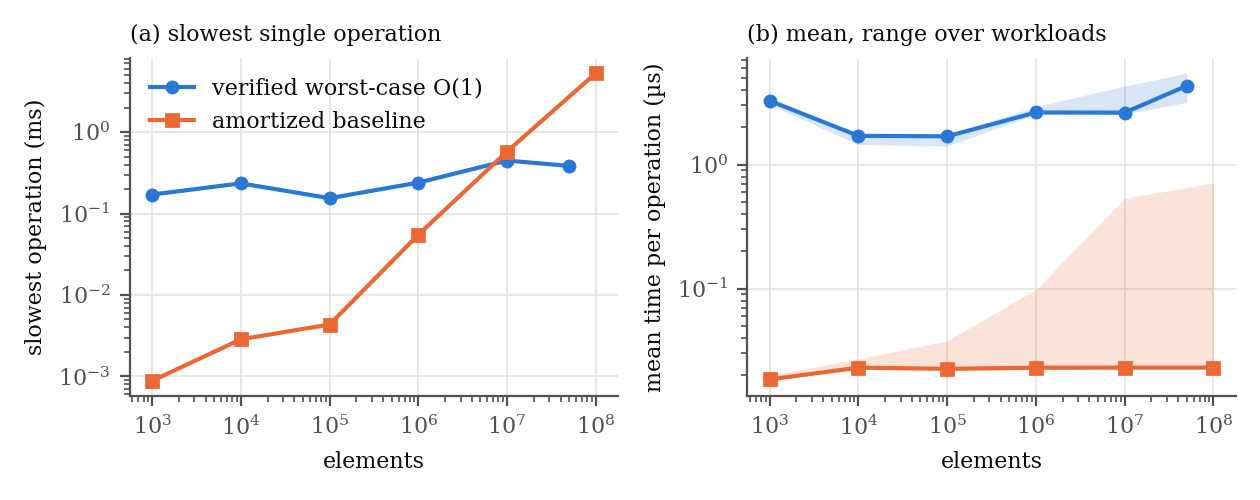
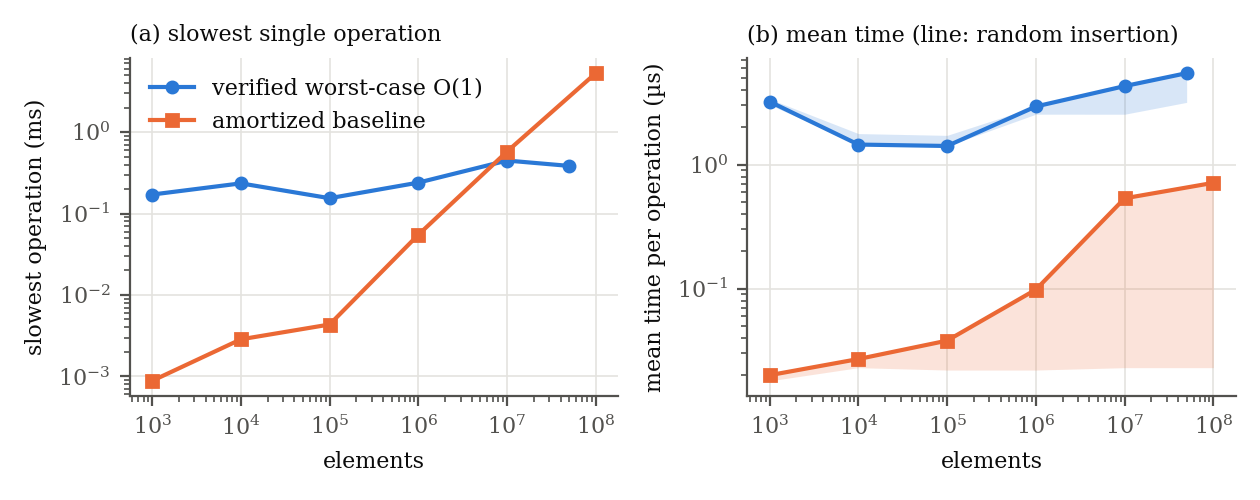
Comparison: the mean-time panel shows random insertion (8x at 10^7, 37x at 10^5) with the range over workloads; README explains the cache effect and where our time goes

diff --git a/rust/results/compare/summarize.py b/rust/results/compare/summarize.py
@@ -65,13 +65,14 @@ for imp, (label, color, marker) in SERIES.items():
     ns = sorted(by_n)
     worst = [max(r["max_ns"] for r in by_n[n]) / 1e6 for n in ns]
     means = [[r["mean_ns"] / 1e3 for r in by_n[n]] for n in ns]
+    rnd = [next(r["mean_ns"] / 1e3 for r in by_n[n] if r["workload"] == "random") for n in ns]
     axes[0].plot(ns, worst, color=color, marker=marker, markersize=4, linewidth=1.5, label=label)
     axes[1].fill_between(ns, [min(m) for m in means], [max(m) for m in means], color=color, alpha=0.18, linewidth=0)
-    axes[1].plot(ns, [statistics.median(m) for m in means], color=color, marker=marker, markersize=4, linewidth=1.5, label=label)
+    axes[1].plot(ns, rnd, color=color, marker=marker, markersize=4, linewidth=1.5, label=label)
 
 axes[0].set_ylabel("slowest operation (ms)")
 axes[1].set_ylabel("mean time per operation (µs)")
-for ax, title in zip(axes, ["(a) slowest single operation", "(b) mean, range over workloads"]):
+for ax, title in zip(axes, ["(a) slowest single operation", "(b) mean time (line: random insertion)"]):
     ax.set_xscale("log")
     ax.set_yscale("log")
     ax.set_xlabel("elements")

diff --git a/rust/README.md b/rust/README.md
@@ -148,8 +148,14 @@ performance cores only, one core per run (`results/compare/run.sh`, `summary.csv
 | 5·10⁷ | 0.29–0.38 ms (hammer, random) | | 3.2–5.5 µs | |
 | 10⁸ | (not run: memory) | 5.3 ms | | 23–712 ns |
 
-The baseline is about 100 times faster on average (it computes with machine words and counts
-nothing). Its slowest insertion relabels a whole tag range and grows linearly with the size (it is
+On average the baseline is faster, by a factor that depends on its cache behaviour. On random
+insertions the gap shrinks as the list outgrows the caches: 37 times at 10⁵ elements, 30 at 10⁶,
+8 at 10⁷ (4.3 µs against 0.53 µs). On the sequential workloads (hammer, append, front) the baseline
+keeps touching the same few groups, stays in the cache, and takes about 23 ns at every size, about
+100 times less. Our cost: about 1,360 machine steps per insertion on average (deamortization does
+a share of future work every time: split moves, top jobs, and while the list grows, 2.35 core
+insertions per user insertion because of rebuild copies), at 1.3–3.4 ns per step in unoptimized
+generated code (arbitrary-precision words, step counting; value-peak tracking alone is 9%). Its slowest insertion relabels a whole tag range and grows linearly with the size (it is
 always the operation with the most work); the verified code's stays below half a millisecond and is
 the faster of the two in the worst case from about 10⁷ elements on. The verified code's slowest
 operation is the one with the most steps, except at 10⁷, where it is the start of a rebuild (about 300
